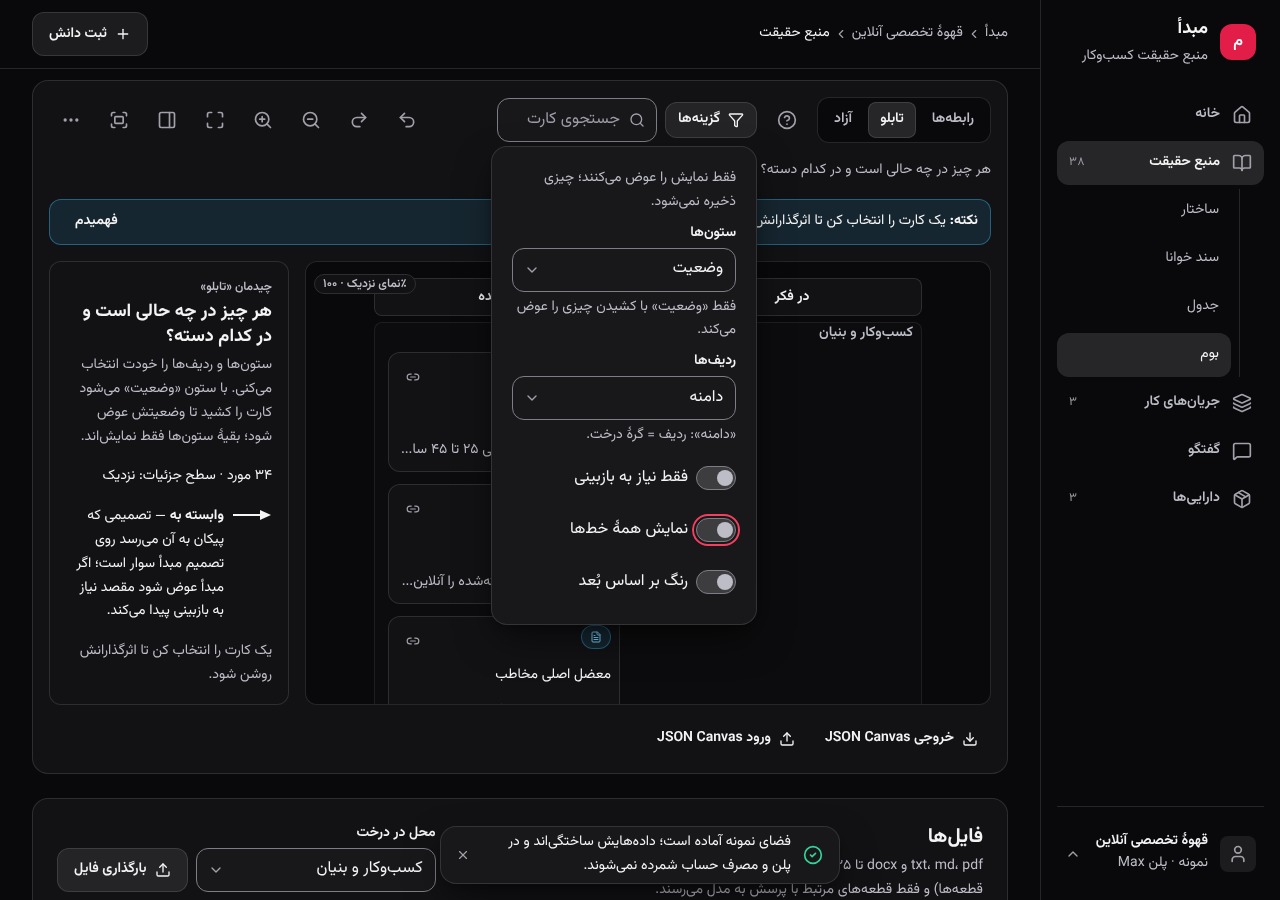
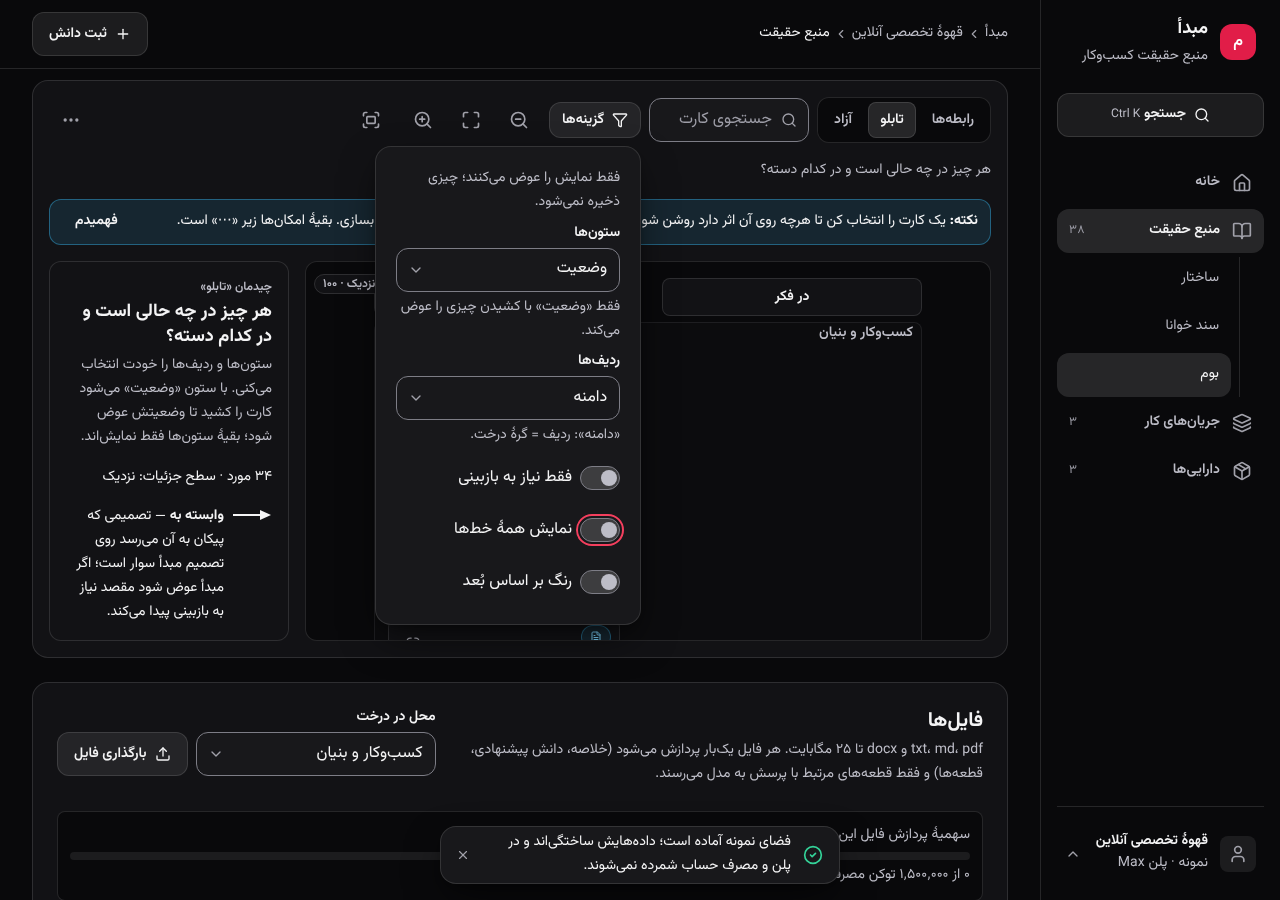
feat(canvas): نوار ابزار پنجکنترلی، حالت تمرکز با پسزمینه (نه شفافیت متن)، بازرس یکجملهای با بخشهای بسته؛ ممیزی screens؛ طرح docs
Claude-Session: https://claude.ai/code/session_012s3hWJ53mCG12g4v1cSDvK

diff --git a/src/components/ContextCanvas.tsx b/src/components/ContextCanvas.tsx
@@ -53,11 +53,9 @@ type Pending = { kind: 'accept'; payload: MovePayload; title: string } | { kind:
 const PREF_KEY = 'mabda.canvas.prefs';
 const TIPS_KEY = 'mabda.canvas.tips';
 const TIPS = [
-  'یک کارت را انتخاب کن تا اثرگذارانش روشن شود.',
-  'روی فضای خالی دابلکلیک کن تا یادداشت تازه بسازی؛ از دستگیرهٔ ۵ هر کارت بکش تا خط تازه بکشی.',
-  'با F تمامصفحه شو و با «؟» میانبرها را ببین. هر کاری را با Ctrl+Z برمیگردانی.',
+  'یک کارت را انتخاب کن تا هرچه روی آن اثر دارد روشن شود؛ روی فضای خالی دابلکلیک کن تا یادداشت تازه بسازی. بقیهٔ امکانها زیر «⋯» است.',
 ];
-const SHORTCUTS: Array<[string, string]> = [['F', 'تمامصفحه (ESC خروج)'], ['؟', 'این راهنما'], ['/  یا  Ctrl+K', 'جستجوی کارت'], ['Ctrl+Z / Ctrl+Shift+Z', 'برگرداندن / از نو'], ['پیکانها', 'رفتن به کارت کناری (روی یک کارت) یا جابهجایی بوم'], ['Enter', 'انتخاب کارت'], ['+  /  −  /  0', 'بزرگنمایی / کوچکنمایی / متناسبسازی'], ['Shift + کلیک', 'انتخاب چندتایی'], ['دابلکلیک روی فضای خالی', 'یادداشت تازه'], ['کلیک راست یا نگهداشتن', 'منوی کارت']];
+const SHORTCUTS: Array<[string, string]> = [['F', 'تمامصفحه (ESC خروج)'], ['I', 'باز و بسته کردن بازرس'], ['؟', 'این راهنما'], ['/  یا  Ctrl+K', 'جستجوی کارت'], ['Ctrl+Z / Ctrl+Shift+Z', 'برگرداندن / از نو'], ['پیکانها', 'رفتن به کارت کناری (روی یک کارت) یا جابهجایی بوم'], ['Enter', 'انتخاب کارت'], ['+  /  −  /  0', 'بزرگنمایی / کوچکنمایی / متناسبسازی'], ['Shift + کلیک', 'انتخاب چندتایی'], ['دابلکلیک روی فضای خالی', 'یادداشت تازه'], ['کلیک راست یا نگهداشتن', 'منوی کارت']];
 
 const readPrefs = (): Partial<{ layout: CanvasLayout; boxes: boolean; columns: BoardColumns; rows: BoardRows }> => { try { return JSON.parse(localStorage.getItem(PREF_KEY) ?? '{}'); } catch { return {}; } };
 const readTips = (): number[] => { try { return JSON.parse(localStorage.getItem(TIPS_KEY) ?? '[]'); } catch { return []; } };
@@ -305,6 +303,7 @@ export const ContextCanvas: React.FC<CanvasProps> = (p) => {
     else if (mod && e.code === 'KeyY') { e.preventDefault(); void doRedo(); }
     else if (mod && e.code === 'KeyK') { e.preventDefault(); document.getElementById('canvas-search')?.focus(); }
     else if (!mod && e.code === 'KeyF') { e.preventDefault(); setFullscreen((v) => !v); }
+    else if (!mod && e.code === 'KeyI') { e.preventDefault(); setInspectorOpen((v) => !v); }
     else if (!mod && (e.key === '?' || e.key === '؟')) { e.preventDefault(); setHelpOpen((v) => !v); }
     else if (!mod && e.key === '/') { e.preventDefault(); document.getElementById('canvas-search')?.focus(); }
   };
@@ -381,11 +380,11 @@ export const ContextCanvas: React.FC<CanvasProps> = (p) => {
       {facetNames.length > 0 && layout !== 'free' && <Switch label="رنگ بر اساس بُعد" checked={colorFacet} onChange={(e) => setColorFacet(e.target.checked)} />}
     </div>
   );
+  // the toolbar shows FIVE controls at most (docs/canvas-design.md): layout · card search · «گزینهها» · zoom group · full screen.
+  // Everything else (undo / redo, auto layout, inspector, JSON Canvas, shortcuts, «this layout?») lives under «⋯» and in the shortcuts.
   const toolbar = (
-    <div className={`flex flex-wrap items-center gap-inline-sm ${sheet ? 'order-last border-t border-border-default pt-inset-sm' : ''}`} role="toolbar" aria-label="نوار ابزار بوم">
+    <div className={`flex flex-wrap items-center gap-inline-sm ${sheet ? 'order-last border-t border-border-default pt-inset-sm' : ''}`} role="toolbar" aria-label="نوار ابزار بوم" data-testid="canvas-toolbar">
       <SegmentedControl label="چیدمان بوم" value={layout} onChange={(id) => { setLayout(id as CanvasLayout); clearSelection(); }} items={(['relations', 'board', 'free'] as CanvasLayout[]).map((k) => ({ id: k, label: LAYOUT_FA[k] }))} />
-      <IconButton icon="CircleHelp" label="این چیدمان چیست؟" aria-expanded={aboutOpen} onClick={() => setAboutOpen((v) => !v)} />
-      <Popover label="گزینههای نما" trigger={<Button size="sm" variant="secondary" iconStart="Filter">گزینهها{optionsCount ? ` (${formatNumber(optionsCount)})` : ''}</Button>}>{options}</Popover>
       <span className="relative">
       <TextField id="canvas-search" size="md" iconStart="Search" aria-label="جستجوی کارت" placeholder="جستجوی کارت" value={query} onChange={(e) => setQuery(e.target.value)} onKeyDown={(e) => { if (e.key === 'Enter' && results[0]) { goTo(results[0].id); setQuery(''); } }} className="w-space-40" />
       {results.length > 0 && (
@@ -394,17 +393,22 @@ export const ContextCanvas: React.FC<CanvasProps> = (p) => {
         </ul>
       )}
       </span>
-      <span className="ms-auto flex items-center gap-inline-xs">
-        <IconButton icon="Undo2" label="برگرداندن (Ctrl+Z)" disabled={!canUndo(hist) || busy} onClick={() => void doUndo()} />
-        <IconButton icon="Redo2" label="از نو (Ctrl+Shift+Z)" disabled={!canRedo(hist) || busy} onClick={() => void doRedo()} />
-        {!isMobile && <IconButton icon="ZoomOut" label="کوچکنمایی" onClick={() => zoomAt(1 / 1.25)} />}
-        {!isMobile && <IconButton icon="ZoomIn" label="بزرگنمایی" onClick={() => zoomAt(1.25)} />}
+      <Popover label="گزینههای نما" trigger={<Button size="sm" variant="secondary" iconStart="Filter">گزینهها{optionsCount ? ` (${formatNumber(optionsCount)})` : ''}</Button>}>{options}</Popover>
+      <span className="flex items-center gap-inline-xs" role="group" aria-label="بزرگنمایی">
+        <IconButton icon="ZoomOut" label="کوچکنمایی" onClick={() => zoomAt(1 / 1.25)} />
         <IconButton icon="Maximize" label="متناسبسازی" onClick={fit} />
-        <IconButton icon="PanelRight" label={inspectorOpen ? 'بستن بازرس' : 'باز کردن بازرس'} aria-expanded={inspectorOpen} onClick={() => setInspectorOpen((v) => !v)} />
-        <IconButton id="canvas-fs" icon={fullscreen ? 'Minimize2' : 'Fullscreen'} label={fullscreen ? 'خروج از تمامصفحه (ESC)' : 'تمامصفحه (F)'} aria-pressed={fullscreen} onClick={() => setFullscreen((v) => !v)} />
+        <IconButton icon="ZoomIn" label="بزرگنمایی" onClick={() => zoomAt(1.25)} />
+      </span>
+      <IconButton id="canvas-fs" icon={fullscreen ? 'Minimize2' : 'Fullscreen'} label={fullscreen ? 'خروج از تمامصفحه (ESC)' : 'تمامصفحه (F)'} aria-pressed={fullscreen} onClick={() => setFullscreen((v) => !v)} />
+      <span className="ms-auto" data-toolbar-overflow="">
         <Menu label="بیشتر" align="end" trigger={<IconButton icon="Ellipsis" label="بیشتر" />} items={[
+          { label: 'برگرداندن (Ctrl+Z)', icon: 'Undo2', disabled: !canUndo(hist) || busy, onSelect: () => void doUndo() },
+          { label: 'از نو (Ctrl+Shift+Z)', icon: 'Redo2', disabled: !canRedo(hist) || busy, onSelect: () => void doRedo() },
+          { divider: true },
           { label: 'یادداشت تازه', icon: 'Plus', onSelect: () => setNewNote({ content: '', nodeId: 'business', x: 0, y: 0 }) },
           { label: 'چیدمان خودکار (پاک کردن ترتیب دستی)', icon: 'Wand2', onSelect: () => { void (async () => { setBusy(true); try { await p.onAutoLayout(); } finally { setBusy(false); } })(); } },
+          { label: inspectorOpen ? 'بستن بازرس' : 'باز کردن بازرس', icon: 'PanelRight', onSelect: () => setInspectorOpen((v) => !v) },
+          { label: aboutOpen ? 'بستن توضیح این چیدمان' : 'این چیدمان چیست؟', icon: 'CircleHelp', onSelect: () => setAboutOpen((v) => !v) },
           { divider: true },
           { label: 'خروجی JSON Canvas', icon: 'Download', onSelect: exportCanvas },
           { label: 'ورود JSON Canvas', icon: 'Upload', onSelect: () => fileInput.current?.click() },
@@ -522,7 +526,6 @@ export const ContextCanvas: React.FC<CanvasProps> = (p) => {
       {sheet && toolbar}
 
       <input ref={fileInput} type="file" accept=".canvas,application/json" className="sr-only" aria-label="انتخاب فایل بوم" tabIndex={-1} onChange={(e) => void importCanvas(e.target.files?.[0])} />
-      {!fullscreen && <div className="flex flex-wrap gap-inline-xs"><Button size="sm" variant="ghost" iconStart="Download" onClick={exportCanvas}>خروجی JSON Canvas</Button><Button size="sm" variant="ghost" iconStart="Upload" onClick={() => fileInput.current?.click()}>ورود JSON Canvas</Button></div>}
 
       <Dialog open={helpOpen} onClose={() => setHelpOpen(false)} size="sm" title="میانبرهای بوم">
         <dl className="flex flex-col gap-stack-sm">{SHORTCUTS.map(([k, v]) => <div key={k} className="flex items-start justify-between gap-inline-md"><dt className="label-md text-text-default"><kbd>{k}</kbd></dt><dd className="body-sm text-text-subtle">{v}</dd></div>)}</dl>

diff --git a/src/components/CanvasItemCard.tsx b/src/components/CanvasItemCard.tsx
@@ -58,14 +58,15 @@ interface CardProps {
  */
 export const CanvasItemCard = React.memo(function CanvasItemCard(p: CardProps) {
   const { item, lod } = p;
-  const tone = p.selected ? 'border-border-selected bg-bg-selected' : p.neighbour ? 'border-border-bold bg-surface-raised' : p.tint ? p.tint : item.kind === 'node' ? 'border-border-bold bg-surface-raised' : item.sample ? 'border-border-default bg-bg-neutral-subtle' : 'border-border-default bg-surface-raised';
-  const common = `canvas-card canvas-glide absolute top-space-0 start-space-0 overflow-hidden rounded-control border ${tone} ${p.dimmed ? 'opacity-40' : ''} ${p.dragging ? 'is-lifted' : ''} ${p.draggable ? '' : 'cursor-pointer'}`;
+  // focus mode: a card that is not part of the selection gets a quieter BACKGROUND and BORDER — its text is never made transparent, so every title stays readable (contrast ≥ 3:1, measured in screens.mjs)
+  const tone = p.dimmed ? 'border-border-subtle bg-surface-sunken' : p.selected ? 'border-border-selected bg-bg-selected' : p.neighbour ? 'border-border-bold bg-surface-raised' : p.tint ? p.tint : item.kind === 'node' ? 'border-border-bold bg-surface-raised' : item.sample ? 'border-border-default bg-bg-neutral-subtle' : 'border-border-default bg-surface-raised';
+  const common = `canvas-card canvas-glide absolute top-space-0 start-space-0 overflow-hidden rounded-control border ${tone} ${p.dragging ? 'is-lifted' : ''} ${p.draggable ? '' : 'cursor-pointer'}`;
   const style = { transform: `translate(${item.x}px, ${item.y}px)`, inlineSize: item.w, blockSize: item.h };
 
   if (lod === 'far') {
     return (
       <div
-        data-item-id={item.id} data-no-pan="" data-lod="far" role="button" tabIndex={0} aria-label={aria(item)} aria-pressed={p.selected}
+        data-item-id={item.id} data-dimmed={p.dimmed || undefined} data-no-pan="" data-lod="far" role="button" tabIndex={0} aria-label={aria(item)} aria-pressed={p.selected}
         onClick={(e) => p.onSelect(item.id, e.shiftKey || e.metaKey || e.ctrlKey)} onFocus={() => p.onFocus(item)} onKeyDown={(e) => p.onKey(e, item)}
         className={`${common} ${item.kind === 'note' ? 'bg-bg-warning-subtle' : ''}`} style={style}
       />
@@ -74,7 +75,7 @@ export const CanvasItemCard = React.memo(function CanvasItemCard(p: CardProps) {
   const role = item.kind === 'object' ? 'group' : 'group';
   return (
     <div
-      data-item-id={item.id} data-object-id={item.objectId} data-no-pan="" data-lod={lod} tabIndex={0} role={role} aria-label={aria(item)} aria-selected={p.selected}
+      data-item-id={item.id} data-dimmed={p.dimmed || undefined} data-object-id={item.objectId} data-no-pan="" data-lod={lod} tabIndex={0} role={role} aria-label={aria(item)} aria-selected={p.selected}
       onPointerDown={(e) => p.onPointerDown?.(e, item)}
       onClick={(e) => { if ((e.target as HTMLElement).closest('button')) return; p.onSelect(item.id, e.shiftKey || e.metaKey || e.ctrlKey); }}
       onDoubleClick={() => p.onOpen(item)}
@@ -109,7 +110,7 @@ export const CanvasItemCard = React.memo(function CanvasItemCard(p: CardProps) {
           <span className="flex items-center gap-inline-xs"><Icon name="Package" size="sm" className="text-icon-subtle" /><Badge intent="neutral" icon={false}>{item.kind === 'assets' ? `${formatNumber(item.count ?? 0)} خروجی` : 'خروجی'}</Badge>{item.review && <Badge intent="warning" icon={false}>قدیمی</Badge>}</span>
         )}
         {item.kind === 'note' && <span className="flex items-center gap-inline-xs"><Icon name="StickyNote" size="sm" className="text-icon-subtle" /><Badge intent="neutral" icon={false}>یادداشت</Badge></span>}
-        <span className={`body-sm ${lod === 'near' ? 'line-clamp-2' : 'line-clamp-3'} text-text-default ${item.kind === 'node' ? 'label-md' : ''}`}>{item.label}</span>
+        <span data-card-title="" className={`body-sm ${lod === 'near' ? 'line-clamp-2' : 'line-clamp-3'} ${p.dimmed ? 'text-text-subtle' : 'text-text-default'} ${item.kind === 'node' ? 'label-md' : ''}`}>{item.label}</span>
         {lod === 'near' && item.summary && item.kind !== 'node' && <span className="body-sm line-clamp-1 text-text-subtle">{item.summary}</span>}
       </div>
     </div>
@@ -124,10 +125,10 @@ interface NoteProps { item: SceneItem; selected: boolean; dimmed: boolean; lod: 
 export const CanvasNoteCard = React.memo(function CanvasNoteCard(p: NoteProps) {
   const { item } = p;
   const style = { transform: `translate(${item.x}px, ${item.y}px)`, inlineSize: item.w, blockSize: item.h };
-  const base = `canvas-card canvas-glide absolute top-space-0 start-space-0 overflow-hidden rounded-control border ${p.selected ? 'border-border-selected' : 'border-border-default'} bg-bg-warning-subtle ${p.dimmed ? 'opacity-40' : ''}`;
+  const base = `canvas-card canvas-glide absolute top-space-0 start-space-0 overflow-hidden rounded-control border ${p.dimmed ? 'border-border-subtle bg-surface-sunken' : `${p.selected ? 'border-border-selected' : 'border-border-default'} bg-bg-warning-subtle`}`;
   if (p.lod === 'far') return <div data-item-id={item.id} data-no-pan="" data-lod="far" role="button" tabIndex={0} aria-label={`یادداشت آزاد: ${item.label}`} onClick={(e) => p.onSelect(item.id, e.shiftKey)} onFocus={() => p.onFocus(item)} onKeyDown={(e) => p.onKey(e, item)} className={base} style={style} />;
   return (
-    <div data-item-id={item.id} data-no-pan="" data-lod={p.lod} tabIndex={0} role="group" aria-label={`یادداشت آزاد: ${item.label}. با کلیدهای جهتدار جابهجا میشود.`}
+    <div data-item-id={item.id} data-dimmed={p.dimmed || undefined} data-no-pan="" data-lod={p.lod} tabIndex={0} role="group" aria-label={`یادداشت آزاد: ${item.label}. با کلیدهای جهتدار جابهجا میشود.`}
       onPointerDown={(e) => p.onPointerDown(e, item)} onClick={(e) => { if ((e.target as HTMLElement).closest('button, textarea')) return; p.onSelect(item.id, e.shiftKey); }}
       onFocus={() => p.onFocus(item)} onKeyDown={(e) => p.onKey(e, item)} className={`${base} p-inset-sm`} style={style}>
       <div dir="rtl" className="flex h-full flex-col gap-stack-xs">
@@ -148,7 +149,7 @@ export const CanvasNoteCard = React.memo(function CanvasNoteCard(p: NoteProps) {
                 </span>
               )}
             </span>
-            <p className="body-sm line-clamp-3 flex-1 whitespace-pre-wrap text-text-default">{p.lod === 'near' ? item.summary : item.label}</p>
+            <p data-card-title="" className={`body-sm line-clamp-3 flex-1 whitespace-pre-wrap ${p.dimmed ? 'text-text-subtle' : 'text-text-default'}`}>{p.lod === 'near' ? item.summary : item.label}</p>
           </>
         )}
       </div>

diff --git a/src/components/InfluencePanel.tsx b/src/components/InfluencePanel.tsx
@@ -3,16 +3,18 @@
  * SPDX-License-Identifier: Apache-2.0
  */
 
-import React from 'react';
+import React, { useState } from 'react';
 import type { ContextObject, GeneratedDeliverable, TreeNode } from '../types';
 import type { Influence } from '../core/influence';
-import { Badge, OriginBadge, StatusBadge, TypeBadge, formatNumber } from '../ui';
+import { Badge, Icon, OriginBadge, StatusBadge, TypeBadge, formatNumber } from '../ui';
 
 interface Props {
   influence: Influence;
   nodes: TreeNode[];
   onOpenObject?: (o: ContextObject) => void;
   onOpenAssets?: () => void;
+  /** the inspector's version: every group is a CLOSED section in plain words (the full panel stays in the detail dialog) */
+  compact?: boolean;
 }
 
 const Row: React.FC<{ o: ContextObject; extra?: React.ReactNode; onOpen?: (o: ContextObject) => void }> = ({ o, extra, onOpen }) => (
@@ -29,9 +31,57 @@ const Group: React.FC<{ title: string; empty: string; count: number; children: R
 );
 
 /** «اثرگذاران و اثرپذیران»: above = what shapes this object, below = what it shapes. Built from effectiveFor + decisionGraph only. */
-export const InfluencePanel: React.FC<Props> = ({ influence, nodes, onOpenObject, onOpenAssets }) => {
+/** a closed-by-default section: a quiet button with a count, the content only when asked for */
+export const Closed: React.FC<{ title: string; count: number; children: React.ReactNode }> = ({ title, count, children }) => {
+  const [open, setOpen] = useState(false);
+  const id = React.useId();
+  return (
+    <div className="flex flex-col gap-stack-xs">
+      <button type="button" aria-expanded={open} aria-controls={id} onClick={() => setOpen((v) => !v)} className="label-md flex min-h-touch w-full items-center justify-between gap-inline-sm rounded-control-sm px-inset-sm text-start text-text-default hover:bg-bg-neutral-subtle">
+        <span>{title}{count ? ` (${formatNumber(count)})` : ''}</span>
+        <Icon name={open ? 'ChevronUp' : 'ChevronDown'} size="sm" className="shrink-0 text-icon-subtle" />
+      </button>
+      {open && <div id={id} className="flex flex-col gap-stack-xs ps-inset-md">{children}</div>}
+    </div>
+  );
+};
+
+export const InfluencePanel: React.FC<Props> = ({ influence, nodes, onOpenObject, onOpenAssets, compact }) => {
   const { shapedBy, shapes } = influence;
   const label = (id: string) => nodes.find((n) => n.id === id)?.label ?? id;
+  if (compact) {
+    return (
+      <div className="flex flex-col gap-stack-xs" role="region" aria-label="جزئیات اثرگذاری" data-testid="inspector-details">
+        <Closed title="به چه چیزی وابسته است" count={shapedBy.dependencies.length}>
+          {shapedBy.dependencies.length ? <ul className="flex flex-col gap-stack-xs">{shapedBy.dependencies.map((o) => <Row key={o.id} o={o} onOpen={onOpenObject} />)}</ul> : <p className="body-sm text-text-subtle">به مورد دیگری وابسته نیست.</p>}
+        </Closed>
+        <Closed title="خط قرمزهایی که اینجا اعمال میشوند" count={shapedBy.constraints.length}>
+          {shapedBy.constraints.length ? <ul className="flex flex-col gap-stack-xs">{shapedBy.constraints.map((c) => <Row key={c.object.id} o={c.object} onOpen={onOpenObject} extra={<OriginBadge value={c.origin} />} />)}</ul> : <p className="body-sm text-text-subtle">خط قرمزی در این بخش اثر ندارد.</p>}
+        </Closed>
+        <Closed title="اینجا اعمال نشود" count={shapedBy.exceptions.length}>
+          {shapedBy.exceptions.length ? <ul className="flex flex-col gap-stack-xs">{shapedBy.exceptions.map((e) => (
+            <li key={`${e.by.id}>${e.target.id}`} className="body-md text-text-default">
+              {e.role === 'overrides' ? <>این مورد «{e.target.title}» را برای بخش خودش و زیربخشها کنار میگذارد.</> : <>«{e.by.title}» آن را برای یک بخش پایینتر کنار میگذارد.</>}
+            </li>
+          ))}</ul> : <p className="body-sm text-text-subtle">جایی نیست که اعمال نشود.</p>}
+        </Closed>
+        <Closed title="آنچه از بخش بالاتر آمده" count={shapedBy.inputs.length}>
+          {shapedBy.inputs.length ? <ul className="flex flex-col gap-stack-xs">{shapedBy.inputs.map((c) => <Row key={c.object.id} o={c.object} onOpen={onOpenObject} extra={<OriginBadge value={c.origin} />} />)}</ul> : <p className="body-sm text-text-subtle">چیزی از بخشهای بالاتر نرسیده.</p>}
+        </Closed>
+        <Closed title="چه چیزی روی آن سوار است" count={shapes.dependents.length}>
+          {shapes.dependents.length ? <ul className="flex flex-col gap-stack-xs">{shapes.dependents.map((o) => <Row key={o.id} o={o} onOpen={onOpenObject} />)}</ul> : <p className="body-sm text-text-subtle">چیزی روی آن سوار نیست.</p>}
+        </Closed>
+        <Closed title="خروجیهای ساختهشده از آن" count={shapes.assets.length}>
+          {shapes.assets.length ? <ul className="flex flex-col gap-stack-xs">{shapes.assets.map((d: GeneratedDeliverable) => (
+            <li key={d.id} className="flex items-center justify-between gap-inline-sm">
+              <span className="body-md text-text-default">{d.title}</span>
+              {onOpenAssets && <button type="button" className="caption text-text-subtle underline-offset-2 hover:underline" onClick={onOpenAssets}>خروجیها</button>}
+            </li>
+          ))}</ul> : <p className="body-sm text-text-subtle">خروجیای از آن ساخته نشده.</p>}
+        </Closed>
+      </div>
+    );
+  }
   const scopeText = shapes.scope.kind === 'global'
     ? 'در همهٔ گرهها اثر دارد'
     : shapes.scope.nodeIds.length === 1 ? `فقط در «${label(shapes.scope.nodeIds[0])}»` : `در ${formatNumber(shapes.scope.nodeIds.length)} گره: ${shapes.scope.nodeIds.slice(0, 4).map(label).join('، ')}${shapes.scope.nodeIds.length > 4 ? '…' : ''}`;

diff --git a/src/components/CanvasInspector.tsx b/src/components/CanvasInspector.tsx
@@ -9,10 +9,9 @@ import type { Scene, SceneEdge, SceneItem } from '../core/canvasScene';
 import { EDGE_ABOUT, LAYOUT_ABOUT, LAYOUT_FA } from '../core/canvasScene';
 import { LOD_FA } from '../core/canvasLod';
 import type { Lod } from '../core/canvasLod';
-import { influenceOf } from '../core/influence';
-import { dependentsOf } from '../core/decisionGraph';
+import { aboutSentence, influenceOf, influenceSummary } from '../core/influence';
 import { Badge, Button, StatusBadge, TypeBadge, formatNumber } from '../ui';
-import { InfluencePanel } from './InfluencePanel';
+import { Closed as DetailSection, InfluencePanel } from './InfluencePanel';
 import { EDGE_STYLE } from './CanvasEdges';
 
 interface Props {
@@ -95,7 +94,6 @@ export const CanvasInspector: React.FC<Props> = (p) => {
             ))}
           </ul>
         )}
-        <p className="body-sm text-text-subtle">یک کارت را انتخاب کن تا اثرگذارانش روشن شود.</p>
       </div>
     );
   }
@@ -103,21 +101,27 @@ export const CanvasInspector: React.FC<Props> = (p) => {
   const o = item.objectId ? p.objects.find((x) => x.id === item.objectId) : undefined;
   if (item.kind === 'object' && o) {
     const inf = influenceOf(o.id, p.objects, p.nodes, p.relationships, p.deliverables, p.now);
-    const dependents = dependentsOf(o.id, p.relationships, p.objects).length;
+    const sum = inf ? influenceSummary(inf, formatNumber) : undefined;
+    const moveBtn = <Button key="move" size="sm" variant="secondary" iconStart="Link2" onClick={() => p.onActions(o.id)}>انتقال و اتصال</Button>;
     return (
-      <div className="flex flex-col gap-stack-sm" data-testid="inspector-object">
+      <div key={o.id} className="flex flex-col gap-stack-sm" data-testid="inspector-object">
         <h3 className="heading-xs text-text-default">{o.title}</h3>
-        <div className="flex flex-wrap items-center gap-inline-xs"><TypeBadge value={o.type} /><StatusBadge value={o.status} />{item.review && <Badge intent="warning" icon={false}>نیاز به بازبینی</Badge>}{item.assumption && <Badge intent="neutral" icon={false}>فرض</Badge>}{item.expired && <Badge intent="neutral" icon={false}>منقضی</Badge>}{item.global && <Badge intent="neutral" icon={false}>دامنهٔ کل</Badge>}</div>
-        <p className="body-sm text-text-subtle">{nodeLabel(o.nodeId)}</p>
-        <p className="body-md text-text-default">{o.content.length > 260 ? `${o.content.slice(0, 260)}…` : o.content}</p>
-        <p className="body-sm text-text-subtle">{formatNumber(dependents)} مورد روی آن سوارند.</p>
-        <div className="flex flex-wrap gap-inline-xs">
+        <p className="body-md text-text-default" data-testid="inspector-about">{aboutSentence(o, nodeLabel(o.nodeId), { review: item.review, expired: item.expired })}</p>
+        {sum && <p className="body-sm text-text-subtle" data-testid="inspector-summary">{sum.sentence}</p>}
+        {/* at most two actions in the first view; everything else is one click away under «بیشتر» */}
+        <div className="flex flex-wrap gap-inline-xs" data-testid="inspector-actions">
+          {item.review ? <Button size="sm" variant="secondary" onClick={() => void p.onAcceptReview(o.id)}>بدون تغییر بپذیر</Button> : moveBtn}
           <Button size="sm" variant="secondary" onClick={() => p.onOpenObject(o)}>باز کردن</Button>
-          <Button size="sm" variant="secondary" iconStart="Link2" onClick={() => p.onActions(o.id)}>انتقال و اتصال</Button>
-          {item.review && <Button size="sm" variant="secondary" onClick={() => void p.onAcceptReview(o.id)}>بدون تغییر بپذیر</Button>}
-          {p.placed && p.onUnplace ? <Button size="sm" variant="ghost" onClick={() => p.onUnplace!(o.id)}>از فضای آزاد بردار</Button> : p.onPlace && scene.layout !== 'free' ? <Button size="sm" variant="ghost" onClick={() => p.onPlace!(o.id)}>بگذار در فضای آزاد</Button> : null}
         </div>
-        {inf && <InfluencePanel influence={inf} nodes={p.nodes} onOpenObject={p.onOpenObject} onOpenAssets={p.onOpenAssets} />}
+        {inf && <InfluencePanel compact influence={inf} nodes={p.nodes} onOpenObject={p.onOpenObject} onOpenAssets={p.onOpenAssets} />}
+        <DetailSection title="بیشتر" count={0}>
+          <p className="body-md whitespace-pre-wrap text-text-default">{o.content.length > 400 ? `${o.content.slice(0, 400)}…` : o.content}</p>
+          <div className="flex flex-wrap items-center gap-inline-xs"><TypeBadge value={o.type} /><StatusBadge value={o.status} />{item.assumption && <Badge intent="neutral" icon={false}>فرض</Badge>}{item.expired && <Badge intent="neutral" icon={false}>منقضی</Badge>}</div>
+          <div className="flex flex-wrap gap-inline-xs">
+            {item.review && moveBtn}
+            {p.placed && p.onUnplace ? <Button size="sm" variant="ghost" onClick={() => p.onUnplace!(o.id)}>از فضای آزاد بردار</Button> : p.onPlace && scene.layout !== 'free' ? <Button size="sm" variant="ghost" onClick={() => p.onPlace!(o.id)}>بگذار در فضای آزاد</Button> : null}
+          </div>
+        </DetailSection>
       </div>
     );
   }

diff --git a/src/core/influence.test.ts b/src/core/influence.test.ts
@@ -50,3 +50,30 @@ test('an object nothing rests on shapes nothing but its own sub-tree; archived d
   assert.deepEqual(i.shapes.assets.map((d) => d.id), ['viaChild']);
   assert.deepEqual(i.shapedBy.dependencies.map((o) => o.id), ['x'], 'child rests on x');
 });
+
+import { aboutSentence, influenceSummary } from './influence';
+import type { Influence } from './influence';
+
+const inf = (b: number, a: number): Influence => ({
+  shapedBy: { dependencies: Array(b).fill({}) as never, constraints: [], exceptions: [], inputs: [] },
+  shapes: { dependents: Array(a).fill({}) as never, assets: [], scope: { kind: 'global', nodeIds: [], exceptNodeIds: [] } },
+});
+test('influenceSummary: «N چیز روی این اثر دارد و M چیز از آن اثر میگیرد» in all four shapes', () => {
+  assert.equal(influenceSummary(inf(2, 3)).sentence, '2 چیز روی این اثر دارد و 3 چیز از آن اثر میگیرد.');
+  assert.equal(influenceSummary(inf(2, 0)).sentence, '2 چیز روی این اثر دارد و چیزی از آن اثر نمیگیرد.');
+  assert.equal(influenceSummary(inf(0, 4), (n) => `«${n}»`).sentence, 'چیزی روی این اثر ندارد و «4» چیز از آن اثر میگیرد.');
+  assert.equal(influenceSummary(inf(0, 0)).sentence, 'هنوز چیزی به این وصل نیست.');
+  assert.deepEqual([influenceSummary(inf(1, 5)).before, influenceSummary(inf(1, 5)).after], [1, 5]);
+});
+
+test('aboutSentence: one plain sentence — kind, place, reach, and only when it matters that it is not final', () => {
+  assert.equal(aboutSentence({ type: 'Constraint', status: 'Confirmed' }, 'آفر'), 'خط قرمزی در «آفر»؛ همهجا اعمال میشود.');
+  assert.equal(aboutSentence({ type: 'Constraint', status: 'Confirmed', reach: 'position' }, 'آفر'), 'خط قرمزی در «آفر»؛ فقط در همین بخش اعمال میشود.');
+  assert.equal(aboutSentence({ type: 'Fact', status: 'Confirmed' }, 'مخاطب'), 'واقعیتی در «مخاطب».');
+  assert.equal(aboutSentence({ type: 'Decision', status: 'Confirmed' }, 'قیمت'), 'تصمیمی در «قیمت».');
+  assert.equal(aboutSentence({ type: 'Decision', status: 'Confirmed', reach: 'global' }, 'قیمت'), 'تصمیمی در «قیمت»؛ همهجا اعمال میشود.');
+  assert.equal(aboutSentence({ type: 'Fact', status: 'Proposed' }, 'مخاطب'), 'واقعیتی در «مخاطب» که هنوز تأیید نشده.');
+  assert.equal(aboutSentence({ type: 'Fact', status: 'Confirmed', assumption: true }, 'مخاطب'), 'فرضی در «مخاطب» که هنوز واقعیت نیست.');
+  assert.equal(aboutSentence({ type: 'Fact', status: 'Confirmed' }, 'مخاطب', { review: true }), 'واقعیتی در «مخاطب» که نیاز به بازبینی دارد.');
+  assert.equal(aboutSentence({ type: 'Fact', status: 'Confirmed' }, ''), 'واقعیتی.');
+});

diff --git a/src/core/influence.ts b/src/core/influence.ts
@@ -67,3 +67,25 @@ export function influenceOf(objectId: string, objects: ContextObject[], nodes: T
   }
   return { shapedBy: { dependencies, constraints, exceptions, inputs }, shapes: { dependents, assets, scope: { kind, nodeIds: nodeIds.filter((n) => !except.has(n)), exceptNodeIds: [...except] } } };
 }
+
+/** how many things shape this one (above) and how many it shapes (below): the one-line summary of the inspector */
+export function influenceSummary(inf: Influence, fmt: (n: number) => string = String): { before: number; after: number; sentence: string } {
+  const before = inf.shapedBy.dependencies.length + inf.shapedBy.constraints.length + inf.shapedBy.inputs.length;
+  const after = inf.shapes.dependents.length + inf.shapes.assets.length;
+  const sentence = !before && !after
+    ? 'هنوز چیزی به این وصل نیست.'
+    : before && after ? `${fmt(before)} چیز روی این اثر دارد و ${fmt(after)} چیز از آن اثر میگیرد.`
+    : before ? `${fmt(before)} چیز روی این اثر دارد و چیزی از آن اثر نمیگیرد.`
+    : `چیزی روی این اثر ندارد و ${fmt(after)} چیز از آن اثر میگیرد.`;
+  return { before, after, sentence };
+}
+
+const KIND_FA = { Fact: 'واقعیتی', Decision: 'تصمیمی', Constraint: 'خط قرمزی' } as const;
+/** ONE plain sentence about an item for the top of the inspector: what it is, where, how far it reaches, and — only when it matters — that it is not final */
+export function aboutSentence(o: Pick<ContextObject, 'type' | 'status' | 'assumption' | 'reach'>, nodeLabel: string, opts: { review?: boolean; expired?: boolean } = {}): string {
+  const where = nodeLabel ? ` در «${nodeLabel}»` : '';
+  const base = o.assumption ? `فرضی${where}` : `${KIND_FA[o.type]}${where}`;
+  const reach = o.type === 'Constraint' || (o.type === 'Decision' && reachOf(o) === 'global') ? (reachOf(o) === 'global' ? '؛ همهجا اعمال میشود' : '؛ فقط در همین بخش اعمال میشود') : '';
+  const state = opts.expired ? ' که منقضی شده' : o.status === 'Proposed' ? ' که هنوز تأیید نشده' : o.status === 'Needs Review' || opts.review ? ' که نیاز به بازبینی دارد' : o.assumption ? ' که هنوز واقعیت نیست' : '';
+  return `${base}${state}${reach}.`;
+}

diff --git a/docs/ui-audit.md b/docs/ui-audit.md
@@ -183,3 +183,19 @@
 - «همینجا جواب بده» با ارائهدهندهٔ ساختگی آزموده شد (سناریوی impact)؛ با کلید واقعی اجرا نشد.
 - شمارندهٔ استفاده فقط باز شدن نماها/دیالوگها و چند اقدام اصلی را میشمرد؛ هر اقدام ریز شمرده نمیشود.
 
+
+---
+
+## بوم سادهتر، لایهٔ فکر بدون نحو، مثال برای خط قرمز — طرح (پیش از کد)
+
+اصول: `docs/design-principles.md` و `docs/canvas-design.md`. بوم بازطراحی نمیشود؛ همان زبان بصری (کارت، خط، چیدمانها) میماند و فقط سادهتر، خواناتر و آرامتر میشود.
+
+| نما | یک سؤال | اقدام اصلی | سطح ۱ (همیشه) | سطح ۲ (وقتی لازم/داده هست) | سطح ۳ («⋯»، «بیشتر»، میانبر) |
+| --- | --- | --- | --- | --- | --- |
+| نوار ابزار بوم | «چه چیزی را چطور ببینم؟» | — (بدون primary) | حداکثر **پنج** کنترل: انتخاب چیدمان · جستجوی کارت · «گزینهها» · گروه زوم (− متناسبسازی +) · تمامصفحه | — | «⋯»: برگرداندن/از نو، یادداشت تازه، چیدمان خودکار، بازرس، «این چیدمان چیست؟»، JSON Canvas، میانبرها؛ میانبرها: Ctrl+Z، F، I، +/−/0، / |
+| حالت تمرکز | «اطراف این کارت چیست؟» | — | کارت انتخابشده و همسایهها روشن؛ بقیه با **پسزمینه و حاشیهٔ آرامتر** (نه شفافکردن متن) و عنوان خوانا | «نمایش همهٔ خطها» در گزینهها | — |
+| بازرس | «این چیست و چه چیزهایی به آن بسته است؟» | — | عنوان + **یک جملهٔ ساده** + «N چیز روی این اثر دارد و M چیز از آن اثر میگیرد» + حداکثر **دو اقدام** | — | بخشهای بسته: وابستگیها، خط قرمزهای اعمالشده، «اینجا اعمال نشود»، آنچه از بالاتر آمده، آنچه روی آن سوار است، خروجیها، «بیشتر» (متن کامل، جایگاه). نکتهٔ اولین استفاده یکبار |
+| یادداشت (لایهٔ فکر) | «چه چیزی هنوز روشن نیست؟» | «افزودن یادداشت» | متن آزاد؛ خطی که با «؟» تمام شود خودکار «سؤال» با نشان کمرنگ | منوی «علامت بزن» روی هر خط (هاور/نگهداشتن): سؤال، فرض، تصمیم باز، ایده | نشانگر براکتی همچنان کار میکند ولی هیچجا آموزش داده نمیشود |
+| ثبت دانش ← «بیشتر» | «این قاعده مرزش کجاست؟» | «ذخیره» | (بدون تغییر) | — | روی قید (و تصمیم همهجا): «افزودن مثال» ← تا سه مثال «درست»/«نادرست» |
+
+معیارهای سنجشپذیر این PR (در `screens.mjs`): نوار ابزار ≤ ۵ کنترل دیدهشده؛ عنوان هر کارت کمرنگشده ≥ ۳:۱ با شفافیت اجدادش حسابشده؛ بازرس: جملهٔ ساده و حداکثر دو اقدام؛ و همهٔ معیارهای قبلی (۴٫۵:۱ متن، ۳:۱ گرافیک، لمس ≥ ۴۴px، بدون سرریز در ۳۹۰ و ۱۲۸۰، یک primary).
